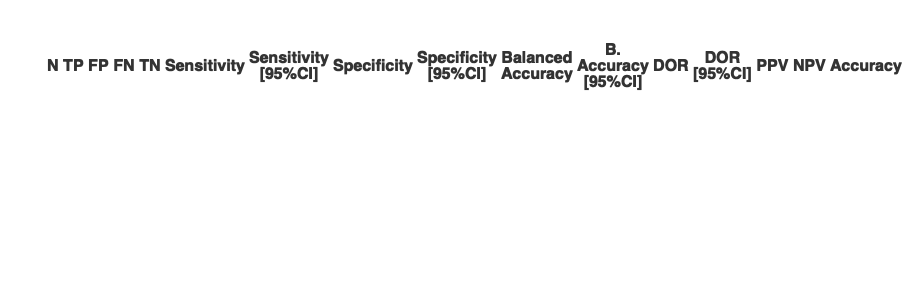
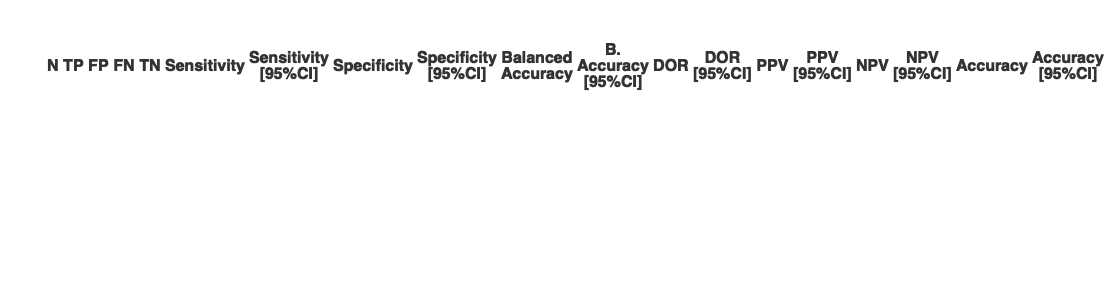
edited the readme to add help command

Changed region(s): [[0.0309, 0.15, 1.0, 0.3]]

diff --git a/README.md b/README.md
@@ -16,8 +16,15 @@ You can install the development version of finddataanalysis from
 
 ``` r
 # install.packages("devtools")
-devtools::install_github("berkosarFIND/finddataanalysis")
+devtools::install_github("finddx/finddataanalysis")
 ```
+
+## List of functions
+
+List of functions are included in the help. Run the following code in
+Console:
+
+    help( package ="finddataanalysis")
 
 ## Performance Evaluations
 
@@ -85,14 +92,14 @@ eval_output_simple_df
 #> 1 40 10 10  0 20         100       66.67     72.25    100.00    48.78    80.77
 #> 2 40  5  0  5 30          50      100.00     23.66     76.34    88.65   100.00
 #> 3 40  9  0  1 30          90      100.00     59.58     98.21    88.65   100.00
-#>   Balanced_Accuracy BAlower BAupper DOR DORUpper DORLower PPV    NPV Accuracy
-#> 1             83.34   60.52   90.38 Inf      Inf      NaN  50 100.00     75.0
-#> 2             75.00   56.15   88.17 Inf      Inf      NaN 100  85.71     87.5
-#> 3             95.00   74.11   99.10 Inf      Inf      NaN 100  96.77     97.5
-#>       Test
-#> 1     Tgs1
-#> 2      AFD
-#> 3 SimpleDx
+#>   Balanced_Accuracy BAlower BAupper DOR DORUpper DORLower PPV PPVLower PPVUpper
+#> 1             83.34   60.52   90.38 Inf      Inf      NaN  50    29.93    70.07
+#> 2             75.00   56.15   88.17 Inf      Inf      NaN 100    56.55   100.00
+#> 3             95.00   74.11   99.10 Inf      Inf      NaN 100    70.09   100.00
+#>      NPV NPVLower NPVUpper Accuracy ACCLower ACCUpper     Test
+#> 1 100.00    83.89   100.00     75.0    59.81    85.81     Tgs1
+#> 2  85.71    70.62    93.74     87.5    73.89    94.54      AFD
+#> 3  96.77    83.81    99.43     97.5    87.12    99.56 SimpleDx
 ```
 
 ### Performance Evaluation by Groups
